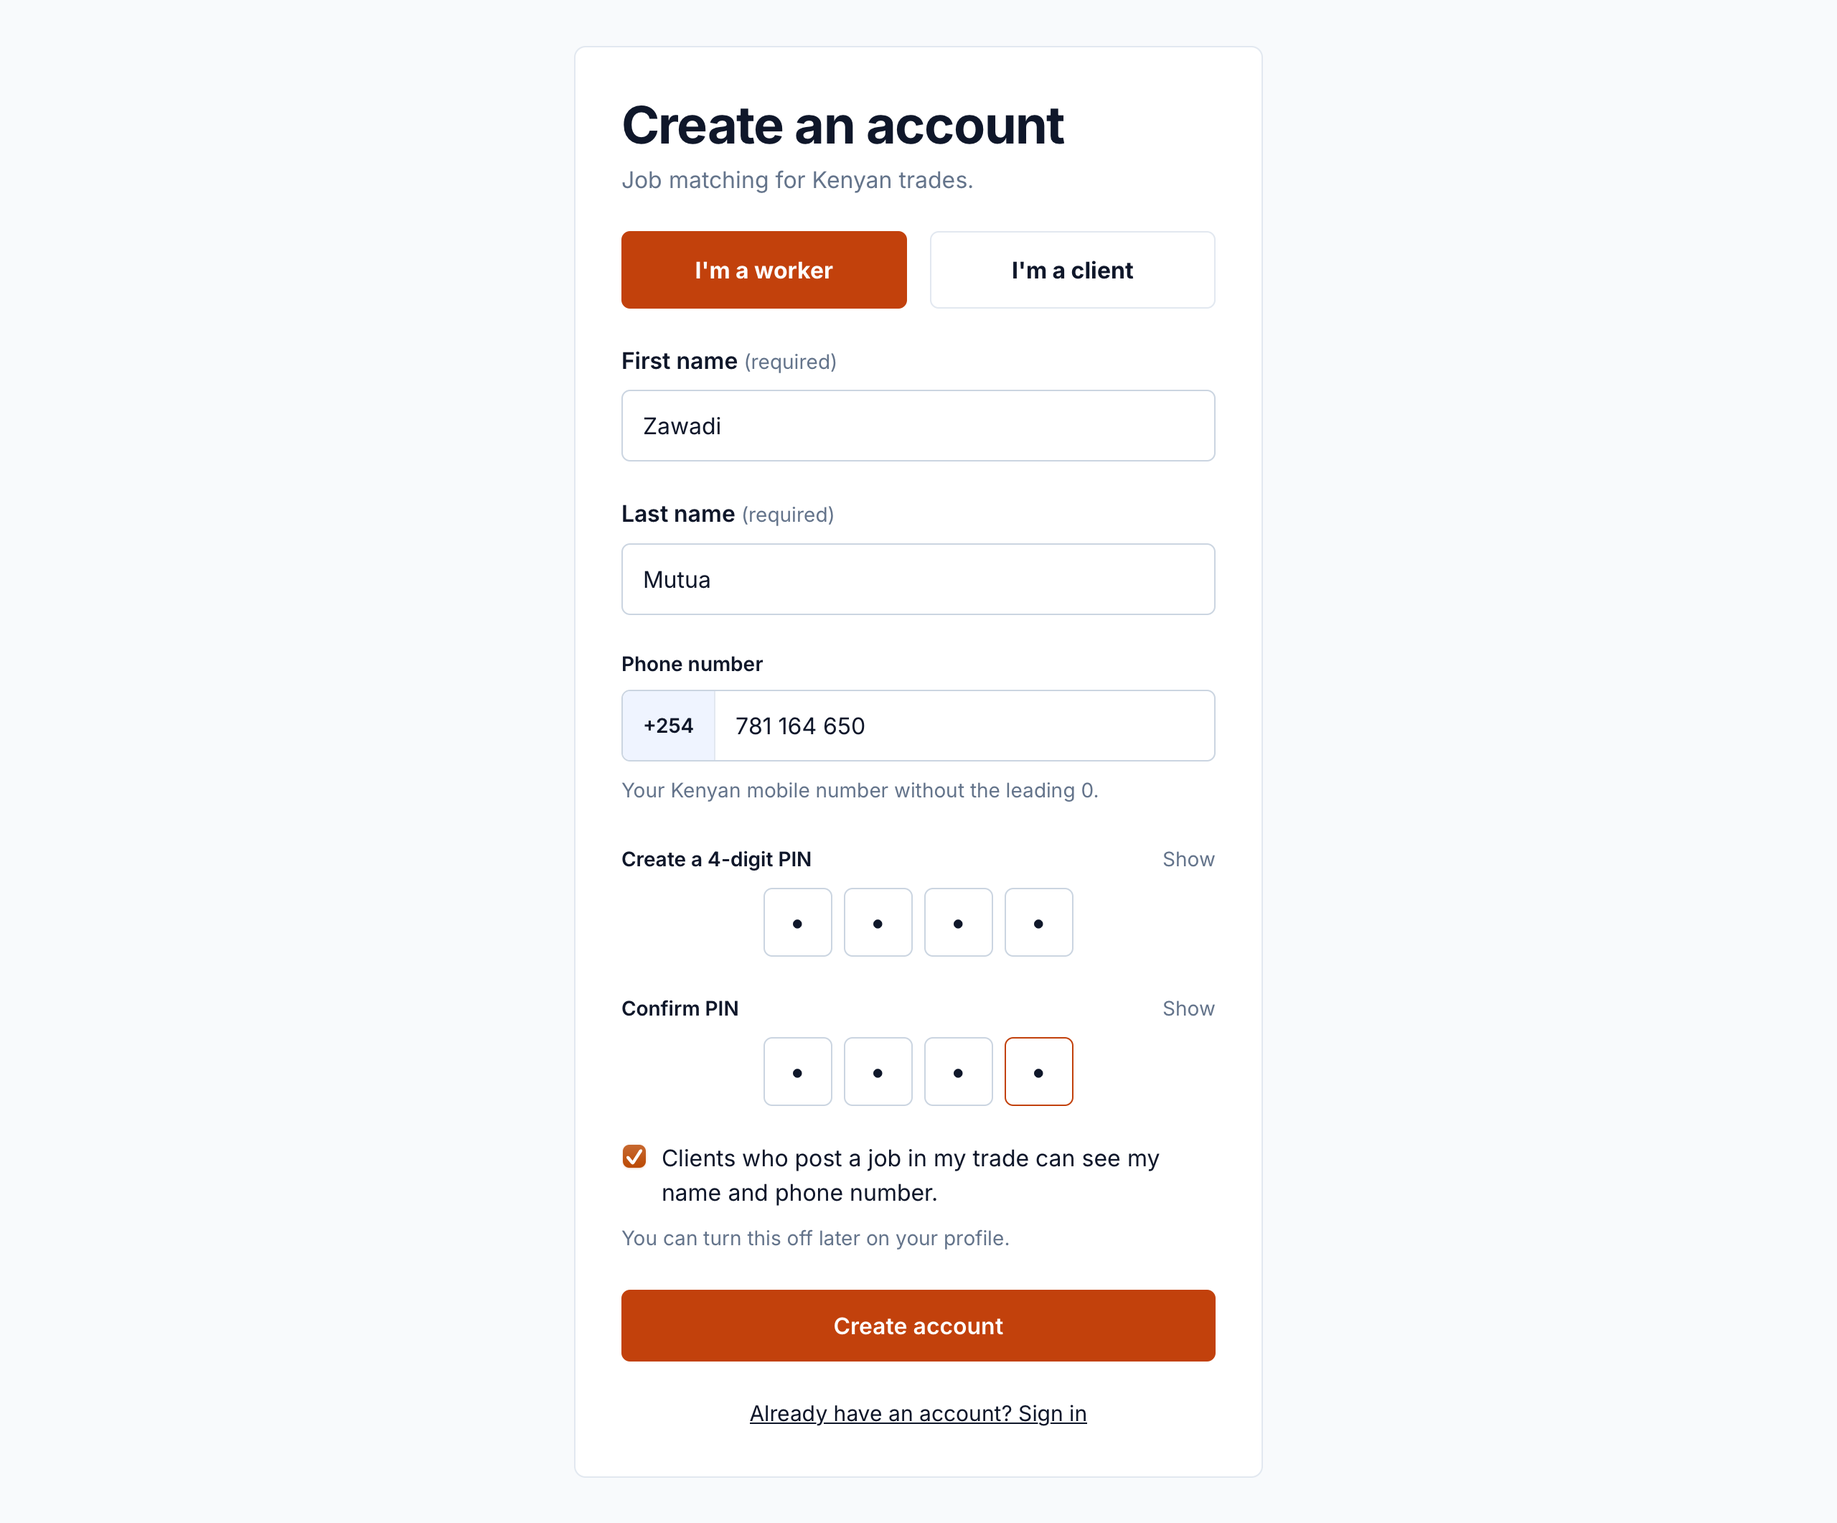
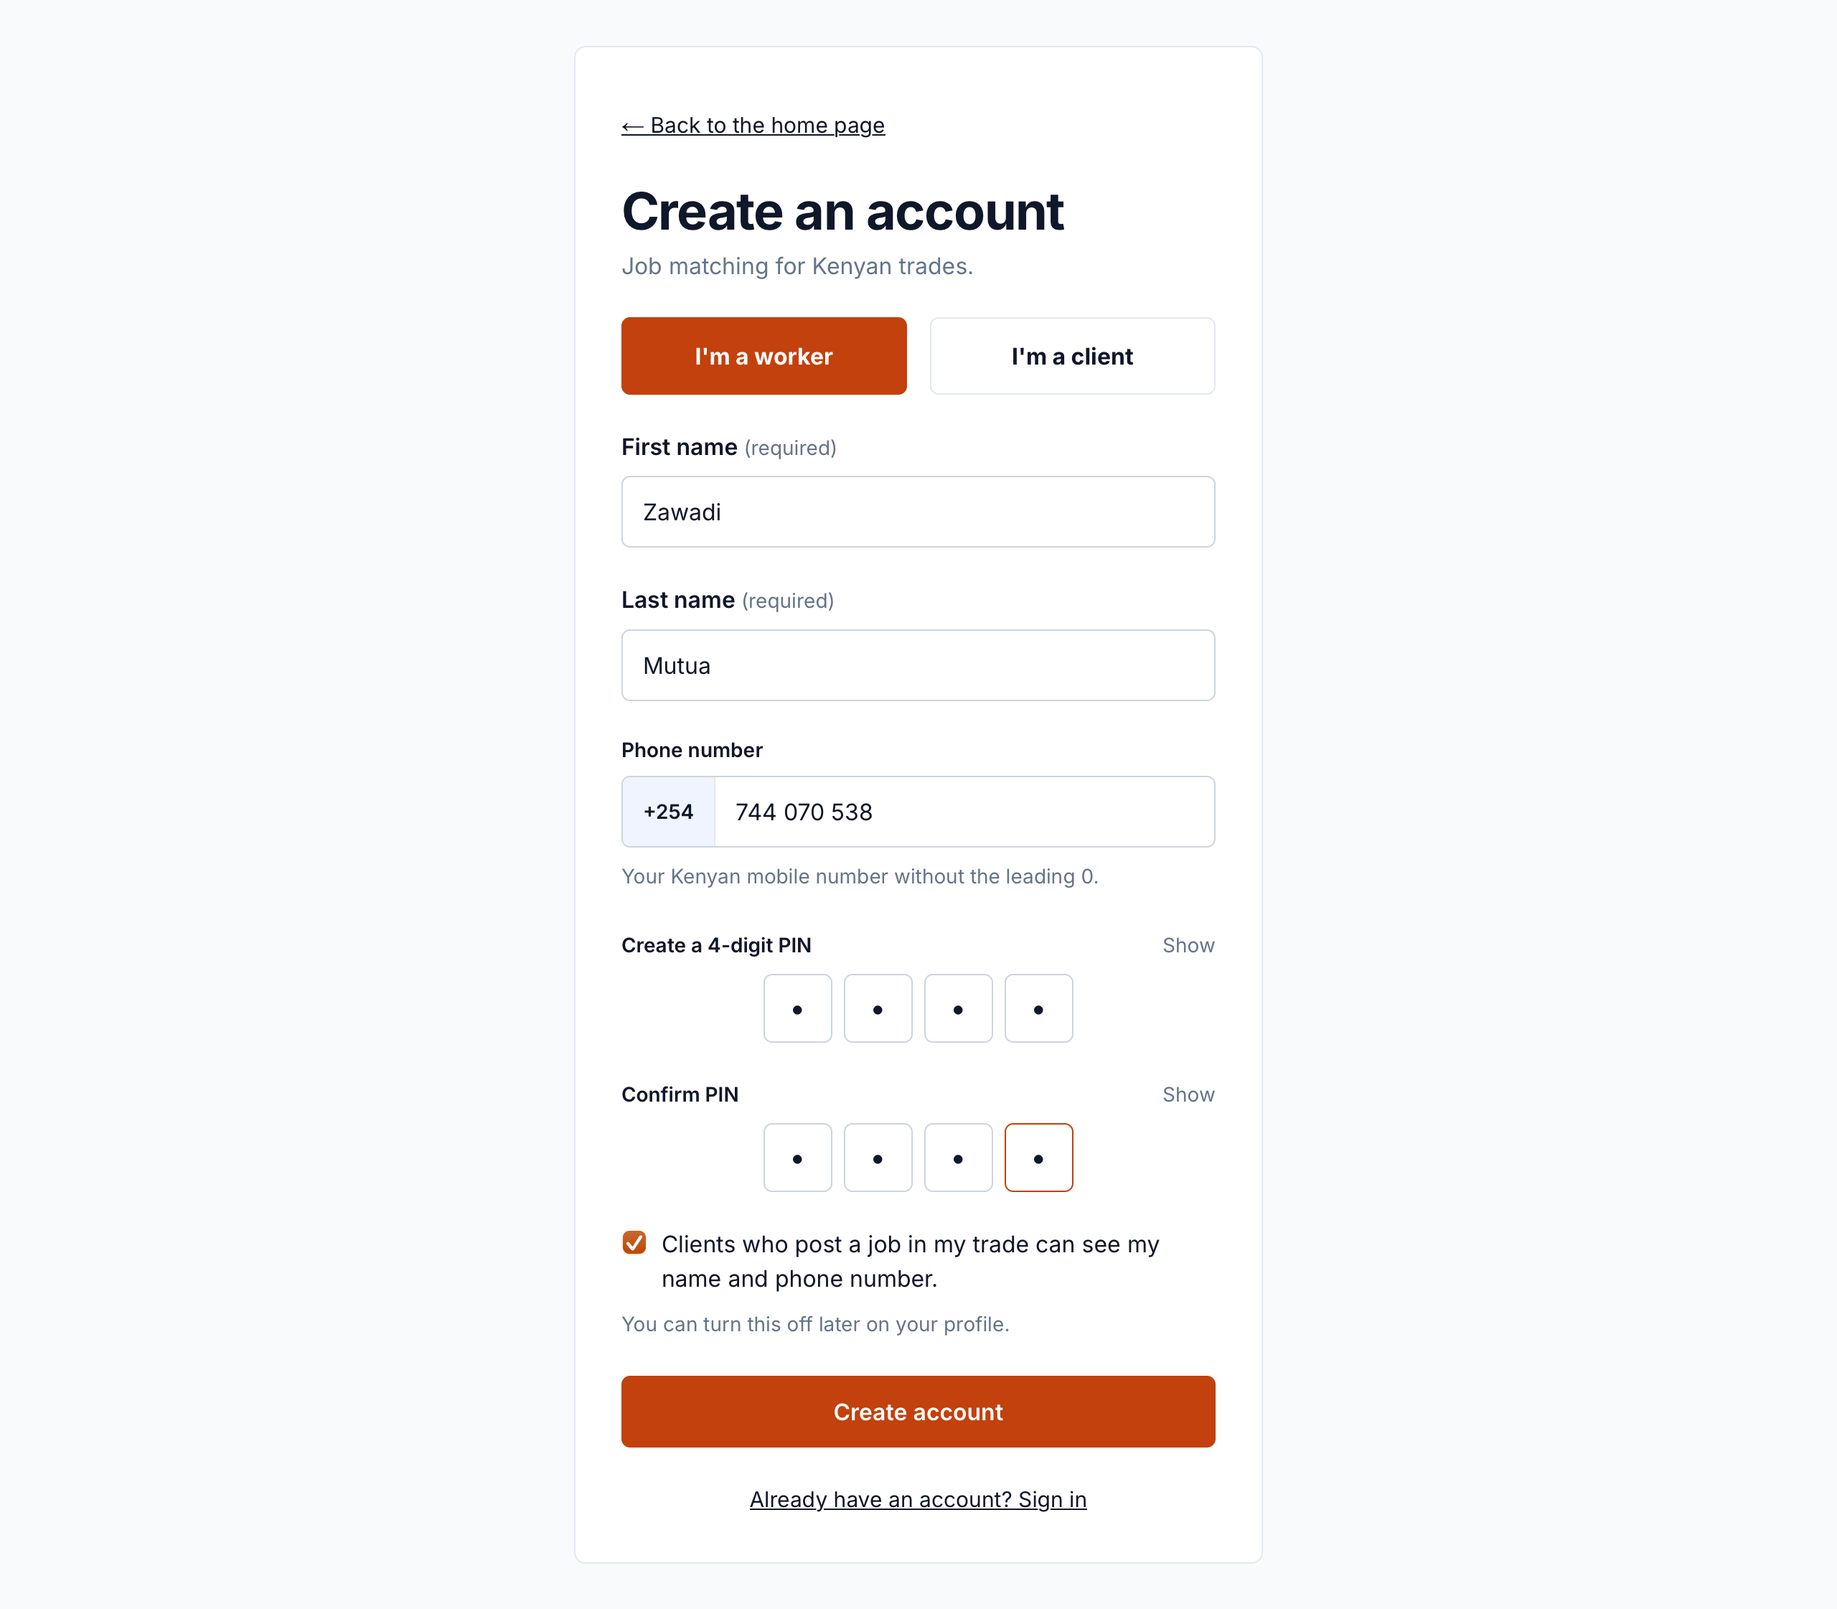
fix(web): a way back to the landing page, and no stuck "Signing in…" / "Saving…" button
Sign-in and create-account gain a "Back to the home page" link.

Next keeps a route it has left mounted but hidden. A successful submit set the busy
flag and never cleared it, so returning to the page showed "Signing in…",
"Creating your account…" or "Saving…" with the fields disabled and nothing submitted.
useIdleWhenHidden clears it when the page is left.

Tests: three component tests that fail without the fix (sign-in, create-account,
profile), the back link on both pages, and two end-to-end tests in each engine.
Sign-in and create-account evidence screens regenerated.

diff --git a/apps/web/__tests__/SignInPage.test.tsx b/apps/web/__tests__/SignInPage.test.tsx
@@ -1,0 +1,97 @@
+/**
+ * Sign in: the way back to the landing page, and a button that does not say "Signing in…" when
+ * nothing has been submitted.
+ *
+ * Next keeps a route it has navigated away from mounted but hidden (an Activity), so that going back is
+ * instant. State survives that, including the busy flag: the first usability sessions saw "Signing in…"
+ * with disabled fields on a sign-in page nobody had submitted.
+ */
+
+import { render, screen, waitFor } from "@testing-library/react";
+import userEvent from "@testing-library/user-event";
+import { Activity } from "react";
+import { beforeEach, describe, expect, it, vi } from "vitest";
+import Page from "@/app/sign-in/page";
+
+const replace = vi.fn();
+vi.mock("next/navigation", () => ({
+  useRouter: () => ({ push: vi.fn(), replace, back: vi.fn() }),
+  usePathname: () => "/sign-in",
+}));
+
+const signIn = vi.fn();
+vi.mock("@/lib/api", async (importOriginal) => ({
+  ...(await importOriginal<typeof import("@/lib/api")>()),
+  api: { signIn: (input: unknown) => signIn(input) },
+}));
+
+vi.mock("@/components/SessionProvider", async (importOriginal) => ({
+  ...(await importOriginal<typeof import("@/components/SessionProvider")>()),
+  useRedirectIfSignedIn: () => {},
+  useSession: () => ({ session: null, loading: false, refresh: vi.fn(), setSession: vi.fn(), signOut: vi.fn() }),
+}));
+
+const SESSION = { account: { account_id: "a-1", phone: "700000101", role: "worker" }, worker_profile_id: "w-1", postings: 0 };
+
+async function submitValidForm() {
+  await userEvent.type(screen.getByLabelText("Phone number"), "700000101");
+  const boxes = screen.getAllByLabelText(/^4-digit PIN, digit/);
+  for (const [index, digit] of [..."4821"].entries()) await userEvent.type(boxes[index], digit);
+  await userEvent.click(screen.getByRole("button", { name: "Continue" }));
+}
+
+beforeEach(() => {
+  vi.clearAllMocks();
+});
+
+describe("the way back", () => {
+  it("links to the landing page", () => {
+    render(<Page />);
+
+    expect(screen.getByRole("link", { name: /Back to the home page/ })).toHaveAttribute("href", "/");
+  });
+});
+
+describe("the submit button", () => {
+  it("says Continue, enabled, when nothing has been submitted", () => {
+    render(<Page />);
+
+    expect(screen.getByRole("button", { name: "Continue" })).toBeEnabled();
+  });
+
+  it("says Signing in… while a sign-in is in flight", async () => {
+    signIn.mockReturnValue(new Promise(() => {}));
+    render(<Page />);
+
+    await submitValidForm();
+
+    expect(await screen.findByRole("button", { name: "Signing in…" })).toBeDisabled();
+  });
+
+  it("is ready again when the worker returns to the page after a successful sign-in", async () => {
+    signIn.mockResolvedValue(SESSION);
+    const { rerender } = render(
+      <Activity mode="visible">
+        <Page />
+      </Activity>,
+    );
+
+    await submitValidForm();
+    await waitFor(() => expect(replace).toHaveBeenCalledWith("/worker/matches"));
+
+    // Next hides the route it navigated away from, and shows it again on the next visit.
+    rerender(
+      <Activity mode="hidden">
+        <Page />
+      </Activity>,
+    );
+    rerender(
+      <Activity mode="visible">
+        <Page />
+      </Activity>,
+    );
+
+    expect(screen.getByRole("button", { name: "Continue" })).toBeEnabled();
+    expect(screen.queryByText("Signing in…")).not.toBeInTheDocument();
+  });
+});

diff --git a/apps/web/e2e/core-workflow.spec.ts b/apps/web/e2e/core-workflow.spec.ts
@@ -236,3 +236,52 @@ test("a signed-out visitor is sent to sign in", async ({ page }) => {
   await expect(page).toHaveURL(/\/sign-in$/);
   await expect(page.getByRole("button", { name: "Continue" })).toBeVisible();
 });
+
+test("sign-in and create-account each have a way back to the landing page", async ({ page }) => {
+  for (const path of ["/sign-in", "/create-account"]) {
+    await page.goto(path);
+    await view(page).getByRole("link", { name: /Back to the home page/ }).click();
+    await expect(page).toHaveURL(/\/$/);
+    await expect(page.getByRole("heading", { level: 1 })).toBeVisible();
+  }
+});
+
+test("no button says Signing in…, Creating your account… or Saving… when nothing was submitted", async ({ page }) => {
+  // Next keeps a route it left mounted but hidden. A busy flag set by a successful submit used to survive that,
+  // so the page came back saying "Signing in…" with its fields disabled (first usability sessions).
+  const number = await createAccount(page, "worker");
+  await page.getByLabel(/What work do you do\?/).fill("fundi wa umeme");
+  await page.getByLabel(/About you/).fill("Five years of electrical work.");
+  await page.getByLabel(/Where do you work\?/).selectOption("Nyeri");
+  await page.getByRole("button", { name: "Create profile" }).click();
+  await expect(page).toHaveURL(/\/worker\/matches$/);
+
+  // Back to the profile page the worker created the profile on, and into editing it.
+  await page.locator("header:visible").getByRole("link", { name: /profile/i }).first().click();
+  await expect(page).toHaveURL(/\/worker\/profile$/);
+  await view(page).getByRole("button", { name: /Edit profile/ }).click();
+  await expect(view(page).getByRole("button", { name: "Save changes" })).toBeEnabled();
+  await expect(view(page).getByText("Saving…")).toHaveCount(0);
+  await view(page).getByRole("button", { name: "Save changes" }).click();
+  await expect(view(page).getByRole("button", { name: /Edit profile/ })).toBeVisible();
+
+  // Sign out to the page create-account left behind, then through sign-in and out again.
+  await page.getByRole("button", { name: /Sign out/ }).click();
+  await expect(page).toHaveURL(/\/sign-in$/);
+  await expect(view(page).getByRole("button", { name: "Continue" })).toBeEnabled();
+  await view(page).getByRole("link", { name: /New here/ }).click();
+  await expect(view(page).getByRole("button", { name: "Create account" })).toBeEnabled();
+  await expect(view(page).getByText("Creating your account…")).toHaveCount(0);
+
+  // By the page's own link, not a fresh load: the point is the sign-in route Next kept.
+  await view(page).getByRole("link", { name: /Already have an account/ }).click();
+  await expect(page).toHaveURL(/\/sign-in$/);
+  await view(page).getByLabel("Phone number", { exact: true }).fill(number);
+  await fillPin(page, /4-digit PIN/, PIN);
+  await view(page).getByRole("button", { name: "Continue" }).click();
+  await expect(page).toHaveURL(/\/worker\/matches$/);
+  await page.getByRole("button", { name: /Sign out/ }).click();
+  await expect(page).toHaveURL(/\/sign-in$/);
+  await expect(view(page).getByRole("button", { name: "Continue" })).toBeEnabled();
+  await expect(view(page).getByText("Signing in…")).toHaveCount(0);
+});

diff --git a/apps/web/__tests__/WorkerProfilePage.test.tsx b/apps/web/__tests__/WorkerProfilePage.test.tsx
@@ -8,6 +8,7 @@
 
 import { render, screen, waitFor } from "@testing-library/react";
 import userEvent from "@testing-library/user-event";
+import { Activity } from "react";
 import { beforeEach, describe, expect, it, vi } from "vitest";
 import Page from "@/app/worker/profile/page";
 import type { OwnContact, Session, Worker } from "@/lib/types";
@@ -266,5 +267,41 @@ describe("a worker's name and who can see it", () => {
     render(<Page />);
     expect(screen.queryByLabelText(/^First name/)).toBeNull();
     expect(screen.queryByRole("checkbox")).toBeNull();
+  });
+});
+
+describe("the submit button after a profile is created", () => {
+  it("is ready again when the worker comes back to the page, and does not say Saving…", async () => {
+    session = signedIn(null);
+    createWorker.mockResolvedValue({});
+    const { rerender } = render(
+      <Activity mode="visible">
+        <Page />
+      </Activity>,
+    );
+
+    await userEvent.type(screen.getByLabelText(/What work do you do\?/), "electrician");
+    await userEvent.type(screen.getByLabelText(/About you/), "Electrical work in houses for three years.");
+    await userEvent.selectOptions(screen.getByLabelText(/Where do you work\?/), "Nairobi - Kasarani");
+    await userEvent.selectOptions(screen.getByLabelText(/When can you work\?/), "Full-time");
+    await userEvent.type(screen.getByLabelText(/Your daily rate/), "2500");
+    await userEvent.click(screen.getByRole("button", { name: "Create profile" }));
+    await waitFor(() => expect(push).toHaveBeenCalledWith("/worker/matches"));
+
+    // Next keeps the page mounted, hidden, once it has navigated away, and shows it again on the next visit.
+    rerender(
+      <Activity mode="hidden">
+        <Page />
+      </Activity>,
+    );
+    rerender(
+      <Activity mode="visible">
+        <Page />
+      </Activity>,
+    );
+
+    expect(screen.queryByText("Finding your matches…")).not.toBeInTheDocument();
+    expect(screen.queryByText("Saving…")).not.toBeInTheDocument();
+    expect(screen.getByRole("button", { name: "Create profile" })).toBeEnabled();
   });
 });

diff --git a/apps/web/__tests__/CreateAccountPage.test.tsx b/apps/web/__tests__/CreateAccountPage.test.tsx
@@ -8,6 +8,7 @@
 
 import { render, screen, waitFor } from "@testing-library/react";
 import userEvent from "@testing-library/user-event";
+import { Activity } from "react";
 import { beforeEach, describe, expect, it, vi } from "vitest";
 import Page from "@/app/create-account/page";
 
@@ -261,5 +262,50 @@ describe("the PIN and its confirmation", () => {
     expect(screen.getAllByLabelText(/^Create a 4-digit PIN, digit/)[0]).toHaveAttribute("type", "password");
     await userEvent.click(show);
     expect(screen.getAllByLabelText(/^Create a 4-digit PIN, digit/)[0]).toHaveAttribute("type", "text");
+  });
+});
+
+describe("the way back", () => {
+  it("links to the landing page", () => {
+    render(<Page />);
+
+    expect(screen.getByRole("link", { name: /Back to the home page/ })).toHaveAttribute("href", "/");
+  });
+});
+
+describe("the submit button", () => {
+  it("is ready again when the page is shown again after an account was created", async () => {
+    createAccount.mockResolvedValue({
+      account: { account_id: "a-1", phone: "700000101", role: "worker" },
+      worker_profile_id: null,
+      postings: 0,
+    });
+    const { rerender } = render(
+      <Activity mode="visible">
+        <Page />
+      </Activity>,
+    );
+
+    await fillWorkerDetails();
+    await userEvent.type(phoneField(), "700000101");
+    await typePin("Create a 4-digit PIN", "4821");
+    await typePin("Confirm PIN", "4821");
+    await userEvent.click(screen.getByRole("button", { name: "Create account" }));
+    await waitFor(() => expect(createAccount).toHaveBeenCalled());
+
+    // Next keeps the page mounted, hidden, once it has navigated away, and shows it again on the next visit.
+    rerender(
+      <Activity mode="hidden">
+        <Page />
+      </Activity>,
+    );
+    rerender(
+      <Activity mode="visible">
+        <Page />
+      </Activity>,
+    );
+
+    expect(screen.getByRole("button", { name: "Create account" })).toBeEnabled();
+    expect(screen.queryByText("Creating your account…")).not.toBeInTheDocument();
   });
 });

diff --git a/apps/web/app/create-account/page.tsx b/apps/web/app/create-account/page.tsx
@@ -17,6 +17,7 @@ import { PIN_LENGTH, PinField, PhoneField, RoleToggle } from "@/components/AuthF
 import { Checkbox, TextInput } from "@/components/FormFields";
 import { ApiErrorMessage, homeFor, useRedirectIfSignedIn, useSession } from "@/components/SessionProvider";
 import { ApiError, api } from "@/lib/api";
+import { useIdleWhenHidden } from "@/lib/useIdleWhenHidden";
 import { MAX_NAME, nameError, tidyName } from "@/lib/names";
 import { phoneError } from "@/lib/phone";
 import { ROLES, type Role } from "@/lib/types";
@@ -53,6 +54,8 @@ function CreateAccount() {
   const [confirmation, setConfirmation] = useState("");
   const [errors, setErrors] = useState<Record<string, string>>({});
   const [busy, setBusy] = useState(false);
+  // See app/sign-in/page.tsx: the page stays mounted, hidden, so busy must be cleared when it is left.
+  useIdleWhenHidden(() => setBusy(false));
 
   // Reported as soon as the second PIN is complete, rather than waiting for submit:
   // the digits are hidden, so the sooner it is said the less there is to retype.
@@ -105,6 +108,9 @@ function CreateAccount() {
   return (
     <main className={styles.centre}>
       <div className={`card ${styles.card}`}>
+        <Link href="/" className={styles.back}>
+          <span aria-hidden="true">←</span> Back to the home page
+        </Link>
         <h1 className={styles.heading}>Create an account</h1>
         <p className={`subtitle ${styles.subtitle}`}>Job matching for Kenyan trades.</p>
 

diff --git a/apps/web/app/sign-in/page.tsx b/apps/web/app/sign-in/page.tsx
@@ -8,6 +8,7 @@ import { useState } from "react";
 import { PinField, PhoneField, RoleToggle } from "@/components/AuthFields";
 import { ApiErrorMessage, homeFor, useRedirectIfSignedIn, useSession } from "@/components/SessionProvider";
 import { ApiError, api } from "@/lib/api";
+import { useIdleWhenHidden } from "@/lib/useIdleWhenHidden";
 import type { Role } from "@/lib/types";
 import styles from "../auth.module.css";
 
@@ -20,6 +21,8 @@ export default function Page() {
   const [pin, setPin] = useState("");
   const [errors, setErrors] = useState<Record<string, string>>({});
   const [busy, setBusy] = useState(false);
+  // On success the page stays busy while it navigates away; it must not still be busy when it is shown again.
+  useIdleWhenHidden(() => setBusy(false));
 
   const submit = async (event: React.FormEvent) => {
     event.preventDefault();
@@ -55,6 +58,9 @@ export default function Page() {
   return (
     <main className={styles.centre}>
       <div className={`card ${styles.card}`}>
+        <Link href="/" className={styles.back}>
+          <span aria-hidden="true">←</span> Back to the home page
+        </Link>
         <form onSubmit={submit} noValidate>
           <RoleToggle role={role} onChange={setRole} bordered={false} disabled={busy} />
 

diff --git a/apps/web/app/worker/profile/page.tsx b/apps/web/app/worker/profile/page.tsx
@@ -23,6 +23,7 @@ import { AmountInput, Checkbox, Select, TextArea, TextInput } from "@/components
 import { formatKes } from "@/components/MatchCard";
 import { ApiErrorMessage, useGuard, useSession } from "@/components/SessionProvider";
 import { ApiError, api } from "@/lib/api";
+import { useIdleWhenHidden } from "@/lib/useIdleWhenHidden";
 import { SUGGESTED_LOCATIONS } from "@/lib/locations";
 import { MAX_NAME, nameError, tidyName } from "@/lib/names";
 import { formatPhone } from "@/lib/phone";
@@ -159,6 +160,9 @@ export default function Page() {
   const [fields, setFields] = useState<Fields>(EMPTY);
   const [errors, setErrors] = useState<Record<string, string>>({});
   const [busy, setBusy] = useState(false);
+  // Creating a profile leaves this page for the matches and stays mounted, hidden; clear busy so that it
+  // does not say "Saving…" with nothing submitted when the worker comes back.
+  useIdleWhenHidden(() => setBusy(false));
   const [confirming, setConfirming] = useState(false);
 
   const set = <K extends keyof Fields>(key: K) => (value: Fields[K]) => setFields((current) => ({ ...current, [key]: value }));

diff --git a/apps/web/lib/useIdleWhenHidden.ts b/apps/web/lib/useIdleWhenHidden.ts
@@ -1,0 +1,17 @@
+import { useEffect, useRef } from "react";
+
+/**
+ * Calls `reset` when the page is navigated away from (or unmounted).
+ *
+ * Next keeps a route mounted but hidden, in an Activity, so that going back is instant. State survives
+ * that, including a button's "busy" flag. A form that goes busy on a successful submit and then navigates
+ * away would come back, on the next visit, still saying "Signing in…" with its fields disabled and nothing
+ * submitted. React tears the effects of a hidden Activity down, so a cleanup here runs at exactly that moment.
+ */
+export function useIdleWhenHidden(reset: () => void): void {
+  const latest = useRef(reset);
+  useEffect(() => {
+    latest.current = reset;
+  });
+  useEffect(() => () => latest.current(), []);
+}

diff --git a/apps/web/app/auth.module.css b/apps/web/app/auth.module.css
@@ -33,3 +33,10 @@
 .alert {
   margin-bottom: var(--space-lg);
 }
+
+.back {
+  display: inline-block;
+  margin-bottom: var(--space-md);
+  padding: 10px 0;
+  font-size: 15px;
+}
